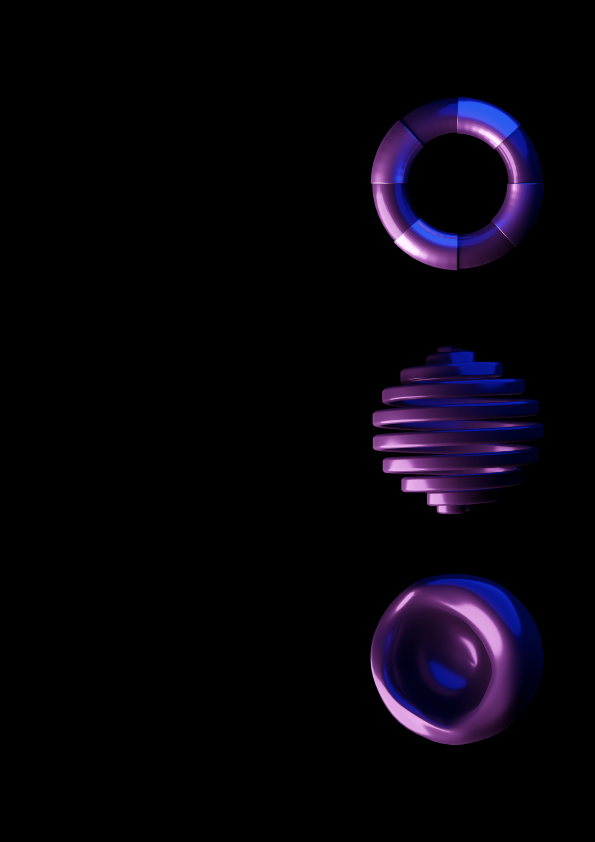
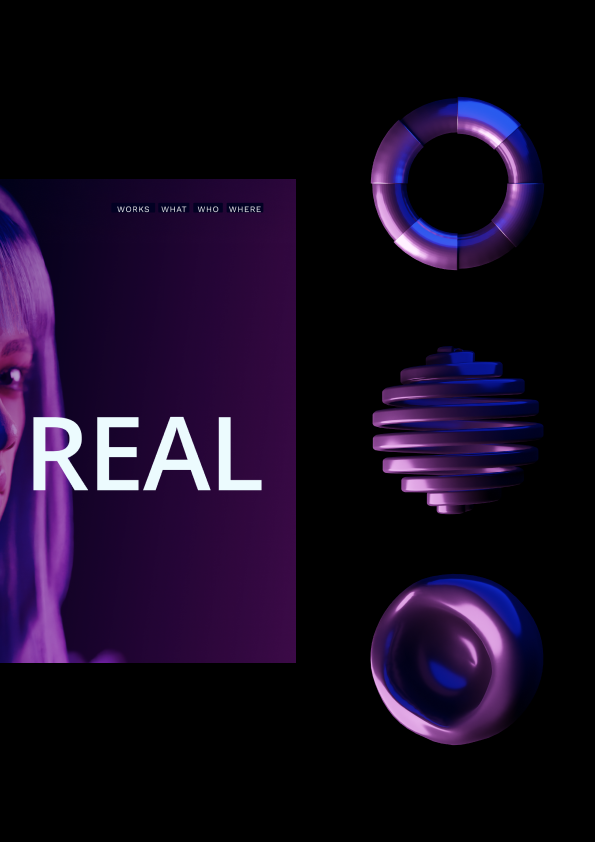
resume

Changed region(s): [[0.0, 0.1853, 0.5143, 0.8029]]

diff --git a/src/components/Book.jsx b/src/components/Book.jsx
@@ -5,7 +5,7 @@ import Cover from "@/components/BookPages/Cover";
 
 export default function Book() {
     return (
-        <div className="flex  p-4 items-center justify-center top-8 right-8s h-[80%] rounded-2xl"
+        <div className="flex p-4 items-center justify-center h-screen rounded-2xl"
         // style={
         //     {backgroundImage: 'url(/portfolioImages/sea.jpg)',
         //     backgroundSize: 'cover'
@@ -15,34 +15,65 @@ export default function Book() {
         >
             <HTMLFlipBook
                 width={400}
-                height={566}
+                height={565}
                 startPage={0}
                 showCover={true}
                 maxShadowOpacity={0.5}
                 drawShadow={true}
                 size={"stretch"}
-                maxHeight={600}
-                maxWidth={500}
+                maxHeight={565}
+                maxWidth={400}
                 minHeight={350.35}
                 minWidth={250}
                 usePortrait={true}
                 mobileScrollSupport={true}
+                // className={'items-center self-end top-8 right-8s h-[80%] rounded-2xl'}
 
             >
                 <div className="bg-black shadow-black shadow-lg aspect-A4">
                     <Cover/>
                 </div>
                 <div className="bg-black shadow-black shadow-lg aspect-A4">
-                    <Cover/>
+                    <img src={'/portfolioImages/A4 - 2.jpg'} className={'absolute'}/>
                 </div>
                 <div className="bg-black shadow-black shadow-lg aspect-A4">
-                    <Cover/>
+                    <img src={'/portfolioImages/A4 - 3.jpg'} className={'absolute'}/>
                 </div>
                 <div className="bg-black shadow-black shadow-lg aspect-A4">
-                    <Cover/>
+                    <img src={'/portfolioImages/A4 - 16.jpg'} className={'absolute'}/>
+                </div>
+                <div className="bg-black shadow-black shadow-lg aspect-A4">
+                    <img src={'/portfolioImages/A4 - 17.jpg'} className={'absolute'}/>
+                </div>
+                <div className="bg-black shadow-black shadow-lg aspect-A4">
+                    <img src={'/portfolioImages/A4 - 46.png'} className={'absolute'}/>
+                </div>
+                <div className="bg-black shadow-black shadow-lg aspect-A4">
+                    <img src={'/portfolioImages/A4 - 52.png'} className={'absolute'}/>
+                </div>
+                <div className="bg-black shadow-black shadow-lg aspect-A4">
+                    <img src={'/portfolioImages/A4 - 47.png'} className={'absolute'}/>
+                </div>
+                <div className="bg-black shadow-black shadow-lg aspect-A4">
+                    <img src={'/portfolioImages/A4 - 38.png'} className={'absolute'}/>
+                </div>
+                <div className="bg-black shadow-black shadow-lg aspect-A4">
+                    <img src={'/portfolioImages/A4 - 38.jpg'} className={'absolute'}/>
+                </div>
+                <div className="bg-black shadow-black shadow-lg aspect-A4">
+                    <img src={'/portfolioImages/A4 - 38.jpg'} className={'absolute'}/>
+                </div>
+                <div className="bg-black shadow-black shadow-lg aspect-A4">
+                    <img src={'/portfolioImages/A4 - 38.jpg'} className={'absolute'}/>
+                </div>
+                <div className="bg-black shadow-black shadow-lg aspect-A4">
+                    <img src={'/portfolioImages/A4 - 38.jpg'} className={'absolute'}/>
+                </div>
+                <div className="bg-black shadow-black shadow-lg aspect-A4">
+                    <img src={'/portfolioImages/A4 - 38.jpg'} className={'absolute'}/>
                 </div>
 
             </HTMLFlipBook>
-        </div>
+         </div>
     );
 }

diff --git a/src/data/resumeData.js b/src/data/resumeData.js
@@ -1,0 +1,115 @@
+
+
+export const educationData = [
+    {
+        title: "BA Visual Communication",
+        year: "2022",
+        description: "University of Tehran, Tehran, Iran",
+    },
+    {
+        title: "High School Diploma in Mathematics and Physics",
+        year: "2022",
+        description: "FARZANEGAN 1 (NODET), Tehran, Iran",
+    },
+];
+
+
+export const workExperienceData = [
+    {
+        title: "Freelance Photographer and Designer",
+        year: "2014 - Present",
+        description: "Self-Employed",
+        list: [
+            "Execute personal creative projects, exploring diverse artistic expressions.",
+            "Collaborate with clients to deliver commissioned photography and design solutions.",
+            "Showcase a versatile portfolio encompassing photography, graphic design, and visual communication.",
+        ],
+    },
+    {
+        title: "Graphic Designer",
+        year: "2022 - Present",
+        description: "Parla Idea, Tehran, Iran",
+        list: [
+            "Lead material design for consistent branding and visual appeal.",
+            "Drive packaging design for eye-catching and functional solutions.",
+            "Craft website design strategies for enhanced user experience and business alignment.",
+            "Maintain the company's visual identity, ensuring brand cohesion.",
+        ],
+    },
+    {
+        title: "Teacher of 'Art History' and 'Visual Creativity'",
+        year: "2019 - 2021",
+        description: "Kooke Talaei Art School, Tehran, Iran",
+        list: [
+            "Fostered creativity through hands-on instruction.",
+            "Mentored students in developing their unique visual style.",
+        ],
+    },
+    {
+        title: "Project-Based Translator",
+        year: "Since 2019",
+        list: [
+            "Translated diverse titles with precision.",
+            "Maintained nuance in academic and literary translations.",
+        ],
+    },
+];
+export const honorsData = [
+    {
+        title: "Winner of Jan Michalski Foundation's Literary Grant",
+        year: "2020",
+        description: "La Fondation Jan Michalski, Switzerland",
+    },
+    {
+        title: "Ranked 1st in the Nationwide University Entrance Exam (Konkur) among 48,000 Candidates",
+        year: "2017",
+        description: "National Organization of Educational Testing, Iran",
+    },
+    {
+        title: "Member of the National Elite Foundation",
+        year: "Since 2017",
+        description: "National Elite Foundation, Iran",
+    },
+    {
+        title: "Admission to the School of Exceptional Talents (Farzanegan)",
+        year: "2010",
+        description: "National Organization for Development of Exceptional Talents, Iran",
+    },
+];
+
+export const competenceData = [
+    {
+        title: 'Graphics and Imaging',
+        items: [
+            { name: 'Photoshop', percentage: 90 },
+            { name: 'Lightroom', percentage: 80 },
+            { name: 'Illustrator', percentage: 85 },
+            { name: 'InDesign', percentage: 55 },
+        ],
+    },
+    {
+        title: 'Design and Prototyping',
+        items: [
+            { name: 'Figma', percentage: 85 },
+            { name: 'Adobe XD', percentage: 75 },
+        ],
+    },
+    {
+        title: '3D Design',
+        items: [
+            { name: 'Blender', percentage: 75 },
+            { name: 'Three.js', percentage: 30 },
+        ],
+    },
+
+    {
+        title: 'Web Development',
+        items: [
+            { name: 'HTML / CSS', percentage: 90 },
+            { name: 'JavaScript', percentage: 85 },
+            { name: 'React / Next.js', percentage: 80 },
+            { name: 'Swift / Swift UI', percentage: 30 },
+            { name: 'Git / Github', percentage: 75 },
+        ],
+    },
+];

diff --git a/src/components/Nav.jsx b/src/components/Nav.jsx
@@ -4,27 +4,14 @@ import Link from "next/link";
 export default function Nav({ children }) {
 
     return (
-        <header className="relative w-full h-12 py-2 flex justify-start items-center  snap-stop">
+        <header className="relative w-full h-20 flex  justify-start items-center  snap-stop">
             <div className="flex items-center w-full justify-between px-6 ">
                 <Link href="/">
-
-                    {/*<svg*/}
-                    {/*    xmlns="http://www.w3.org/2000/svg"*/}
-                    {/*    width="97"*/}
-                    {/*    height="30"*/}
-                    {/*    viewBox="0 0 97 30"*/}
-                    {/*    className="fill-textColor-light dark:fill-textColor-dark h-6"*/}
-                    {/*>*/}
-                    {/*    <path d="M86.3873 0C80.9842 0 76.5486 4.2095 76.1733 9.51771H67.3474V10.9646H76.1055C75.7347 15.477 71.9502 19.0354 67.3474 19.0354V20.4823C71.9548 20.4823 75.7438 24.0407 76.1145 28.5531H67.3474C62.4958 28.5531 58.5531 24.6059 58.5531 19.7588V10.2411C58.5531 5.3896 62.5004 1.44688 67.3474 1.44688H76.8651V0H67.3474C61.7001 0 57.1062 4.59382 57.1062 10.2411V14.523C55.9578 12.5968 54.1944 11.0821 52.0919 10.2411C55.8719 8.73549 58.5531 5.03693 58.5531 0.723439V0H48.312C42.9088 0 38.4687 4.2095 38.098 9.51771H29.2766V10.9646H38.0437C37.6729 15.477 33.8839 19.0354 29.2766 19.0354V20.4823C33.8839 20.4823 37.6729 24.0407 38.0437 28.5531H29.2766C24.425 28.5531 20.4823 24.6059 20.4823 19.7588V10.2411H19.0354V19.7588C19.0354 24.6104 15.0882 28.5531 10.2411 28.5531H1.44687V19.7588V1.44688H10.2411C15.0927 1.44688 19.0354 5.39412 19.0354 10.2411H20.4823C20.4823 5.3896 24.4295 1.44688 29.2766 1.44688H38.7943V0H29.2766C24.9631 0 21.2645 2.68123 19.7588 6.46119C18.2532 2.68123 14.5546 0 10.2411 0H0V19.7588V30H10.2411C14.5546 30 18.2532 27.3188 19.7588 23.5388C21.2645 27.3188 24.9631 30 29.2766 30H48.312C52.6255 30 56.324 27.3142 57.8297 23.5298C59.3353 27.3142 63.0339 30 67.3474 30H77.5885V29.2766C77.5885 24.9631 74.9073 21.2645 71.1273 19.7588C74.9073 18.2532 77.5885 14.5546 77.5885 10.2411C77.5885 5.3896 81.5358 1.44688 86.3828 1.44688C91.2298 1.44688 95.1771 5.39412 95.1771 10.2411V19.7588C95.1771 24.6104 91.2298 28.5531 86.3828 28.5531C83.7242 28.5531 81.2374 27.3685 79.5599 25.3067C78.2894 23.7468 77.5885 21.7754 77.5885 19.7543H76.1417C76.1417 22.1055 76.9555 24.3979 78.4386 26.22C80.3918 28.6209 83.2901 29.9955 86.3828 29.9955C92.0301 29.9955 96.6239 25.4017 96.6239 19.7543V10.2366C96.6285 4.59382 92.0346 0 86.3873 0ZM40.2863 22.9239C40.2863 22.9239 40.2909 22.9239 40.2909 22.9194C40.2863 22.9239 40.2864 22.9239 40.2818 22.9284L40.2863 22.9239ZM48.312 28.5531H39.5448C39.7257 26.3828 40.7114 24.3301 42.3165 22.838C43.9487 21.3188 46.0784 20.4823 48.3075 20.4823V19.0354C45.9563 19.0354 43.7498 18.1221 42.0859 16.4582C40.4265 14.7988 39.5087 12.5878 39.5087 10.2366C39.5087 5.38508 43.4559 1.44235 48.3029 1.44235H57.0701C56.6993 5.95478 52.9103 9.51318 48.3029 9.51318V10.9601C53.1545 10.9601 57.0972 14.9073 57.0972 19.7543C57.1108 24.6104 53.1635 28.5531 48.312 28.5531Z"/>*/}
-                    {/*</svg>*/}
                     <p className="text-white font-semibold font-['Montserrat'] uppercase">Sama Moayeri</p>
                     <p className="text-white text-xs font-normal font-['Montserrat']">Creative Director & Designer</p>
                 </Link>
                 <div className="text-white text-xs font-normal font-['Montserrat']">CONTACT</div>
-
-
                 {children}
-
             </div>
         </header>
     );

diff --git a/src/pages/Portfolio/portfolio.js b/src/pages/Portfolio/portfolio.js
@@ -1,10 +1,77 @@
 import Book from "@/components/Book";
 import Layout from "@/pages/layout";
+import Sbox from "@/components/PortfolioBoxes/Bigbox";
+import {SubBox, Competence} from "@/components/PortfolioBoxes/elements";
+import Bigbox from "@/components/PortfolioBoxes/Bigbox";
+import {honorsData, workExperienceData, educationData, competenceData} from "@/data/resumeData";
+
+
 
 export default function Portfolio() {
     return (
         <Layout>
-            <Book/>
+            <div
+                className={"m-4  grid grid-cols-3 gap-6"}
+            >
+                <Bigbox
+                    heading={"Profile"}
+                >
+                    <p>
+                        Experienced senior graphic designer with a passion
+                        for UI/UX and web development. Proven track record in
+                        teaching, translating, and creative arts. Recognized
+                        for academic excellence and active participation in
+                        international events. Proficient in HTML, CSS, JavaScript,
+                        and a wide range of design software.
+                    </p>
+
+                </Bigbox>
+
+                <Bigbox heading={"Work Experience"}
+                className={"col-span-2 row-span-2"}>
+                    {workExperienceData.map((experience, index) => (
+                        <SubBox
+                            key={index}
+                            title={experience.title}
+                            year={experience.year}
+                            description={experience.description}
+                            list={experience.list}
+                        />
+                    ))}
+                </Bigbox>
+
+                <Bigbox heading={"Education"}>
+                    {educationData.map((education, index) => (
+                        <SubBox
+                            key={index}
+                            title={education.title}
+                            year={education.year}
+                            description={education.description}
+                        />
+                    ))}
+                </Bigbox>
+
+
+                <Bigbox heading={"Honors"}>
+                    {honorsData.map((honors, index) => (
+                        <SubBox
+                            key={index}
+                            title={honors.title}
+                            year={honors.year}
+                            description={honors.description}
+                        />
+                    ))}
+                </Bigbox>
+
+                <Bigbox heading={"Competences"}>
+                    {competenceData.map((data, index) => (
+                        <Competence key={index} title={data.title} items={data.items} />
+                    ))}
+                </Bigbox>
+
+            </div>
+
+
 
         </Layout>
     )

diff --git a/src/components/PortfolioBoxes/elements.jsx b/src/components/PortfolioBoxes/elements.jsx
@@ -1,0 +1,49 @@
+
+function PercentageBar({ percentage }) {
+    return (
+        <div className="bg-gray-900 rounded-full flex h-3 items-center">
+            <div
+                className="h-2 rounded-full"
+                style={{ width: `${percentage}%`, background: '#2DCCD7' , opacity: `${percentage}%` }}
+            ></div>
+        </div>
+    );
+}
+
+
+
+function Competence({ title, items }) {
+    return (
+        <div>
+            <h2 className="text-gray-400 mb-2">{title}</h2>
+            {items.map((item, index) => (
+                <div key={index} className="mb-2">
+                    <p className="w-1/3 text-xs">{item.name}</p>
+                    <PercentageBar percentage={item.percentage} />
+                </div>
+            ))}
+        </div>
+    );
+}
+
+
+function SubBox({year, title, description, list}) {
+    return (
+        <div className={"flex py-2 hover:ring transition"}>
+            <h1 className={"text-gray-400 text-xs w-1/6"}>{year}</h1>
+            <div className={"pl-3 pb-2.5"}>
+                <h1 className={"pb-1  text-white text-base font-semibold font-['Montserrat']"}>{title}</h1>
+                <h1 className={"pb-2.5 text-justify text-cyan-500 text-sm font-normal font-['Montserrat'] leading-1 italic" }>{description}</h1>
+                {list != null && list.map((item, index) => (
+                    <h1 key={index} className={"pb-1 text-gray-400 text-xs font-normal font-['Montserrat'] leading-1"}>
+                        - {item}
+                    </h1>
+                ))}
+
+            </div>
+        </div>
+    )
+}
+
+export {SubBox, Competence};
+

diff --git a/src/components/PortfolioBoxes/Bigbox.jsx b/src/components/PortfolioBoxes/Bigbox.jsx
@@ -1,0 +1,16 @@
+
+export default function Bigbox({
+                                   heading,
+                                   children,
+    className,
+    ...rest
+}) {
+    return(
+        <div
+                className={`${className} relative w-full border border-gray-500 h-full p-4`}
+        >
+            <h1 className={"text-2xl font-bold pb-5"}>{heading}</h1>
+            {children}
+        </div>
+    )
+}

diff --git a/src/styles/globals.css b/src/styles/globals.css
@@ -1,3 +1,5 @@
+@import url('https://fonts.googleapis.com/css2?family=Montserrat:wght@200;300;400;500;600;700;800;900&display=swap');
+
 @tailwind base;
 @tailwind components;
 @tailwind utilities;
@@ -18,7 +20,7 @@
 }
 
 body {
-  font-family:     'Montserrat', sans-serif ;
+  font-family: 'Montserrat', sans-serif ;
   color: rgb(var(--foreground-rgb));
   background: linear-gradient(
       to bottom,

diff --git a/src/pages/layout.js b/src/pages/layout.js
@@ -1,7 +1,10 @@
+import { useState, useEffect } from "react";
 import Nav from "@/components/Nav";
+
 export default function Layout({ children }) {
+
     return (
-        <div className="layout h-screen bg-dark-teal">
+        <div className={`layout bg-dark-teal m-4`}>
             <Nav/>
             <main>{children}</main>
         </div>
